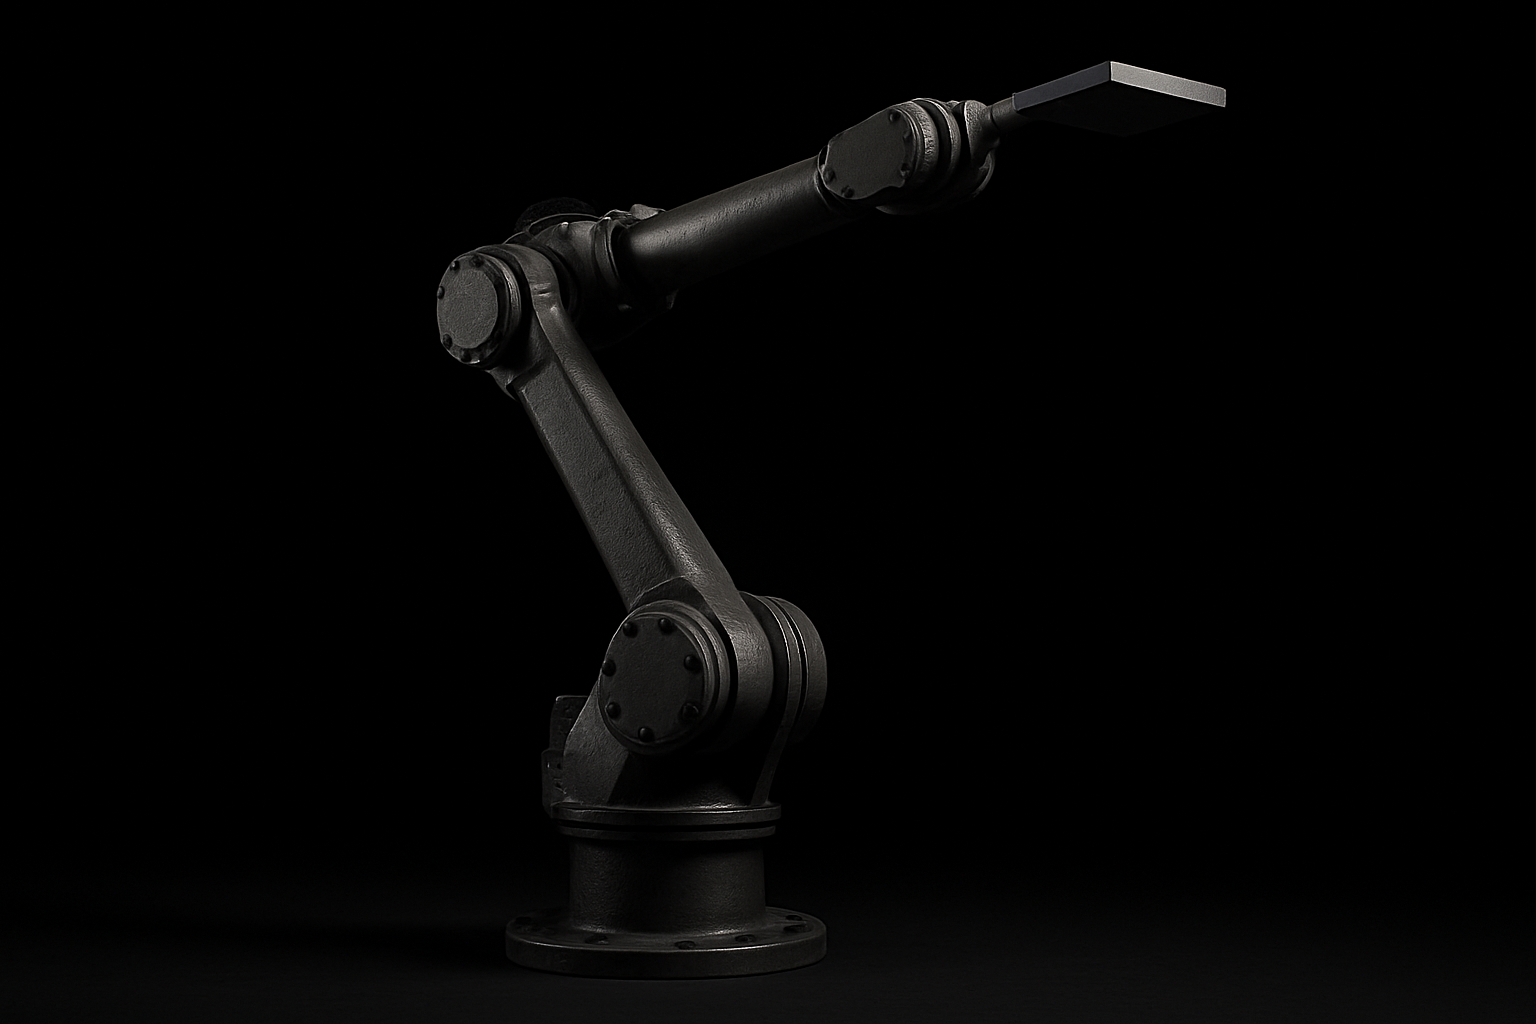
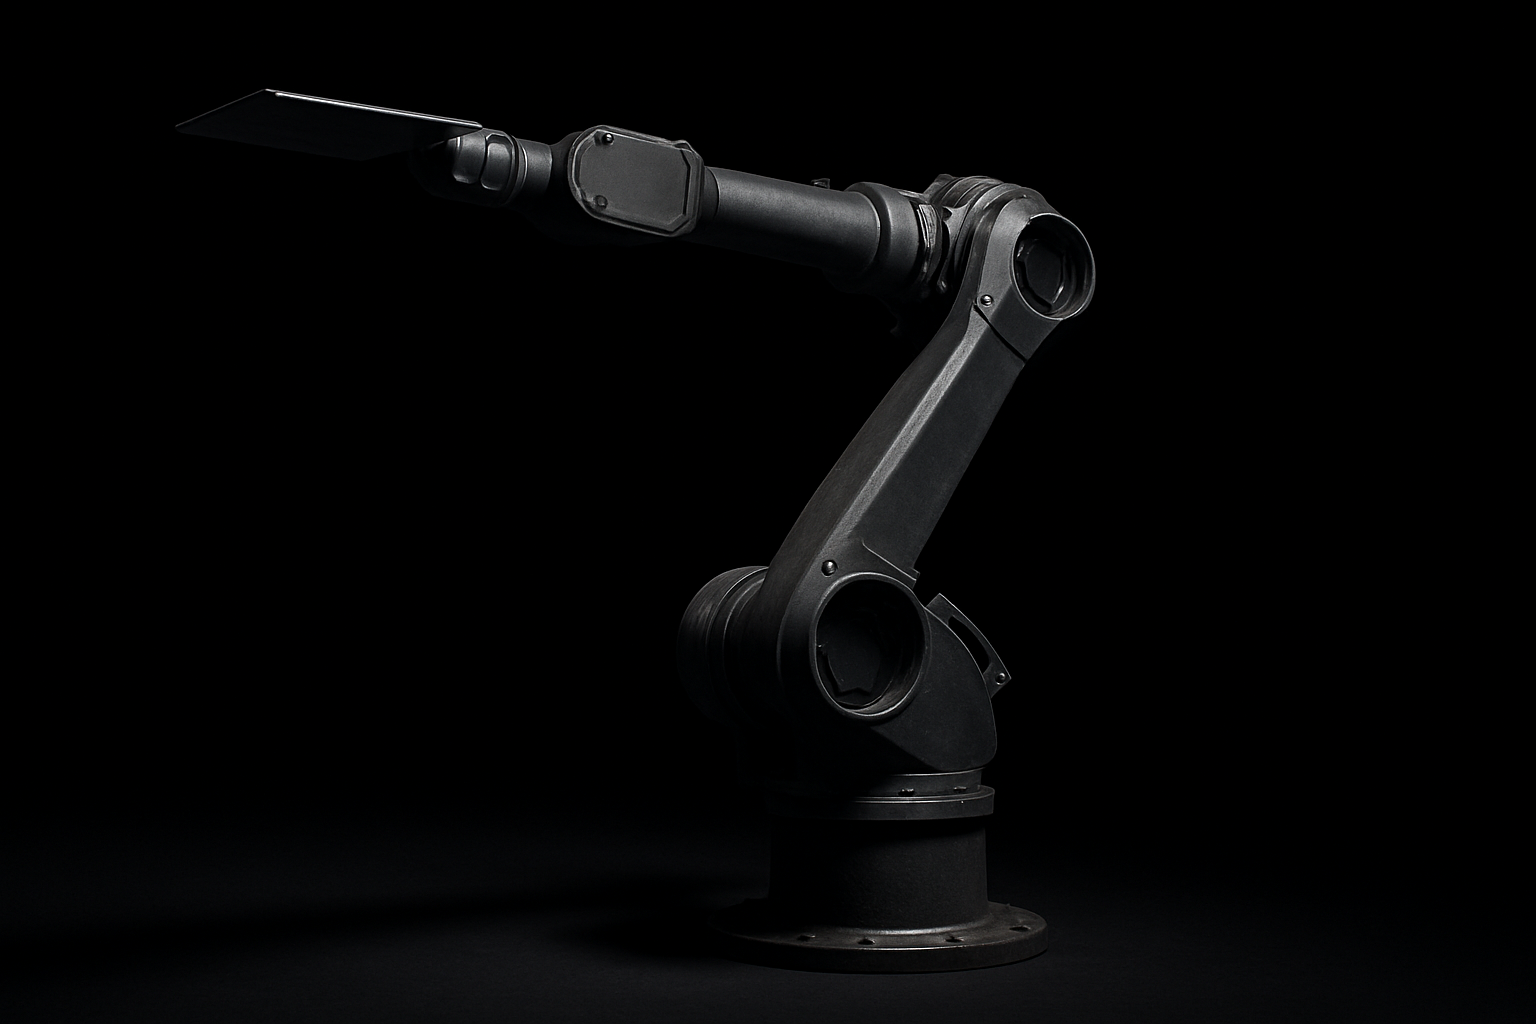
RDC - Lay the stations out for a wide landing frame
Sprite sizes are fractions of frame height, so the timeline takes the
frame aspect to place held objects in the gripper.

Claude-Session: https://claude.ai/code/session_016xuLGMw92atuyNj2hyudPx

Changed region(s): [[0.1875, 0.0625, 0.8125, 0.9375], [0.4375, 0.7812, 0.5, 0.8125]]

diff --git a/client/src/landing/timeline.ts b/client/src/landing/timeline.ts
@@ -30,11 +30,13 @@ export interface SpriteTransform {
   readonly visible: number;
 }
 
-const STATION_X = [1 / 6, 1 / 2, 5 / 6] as const;
-const BELT_Y = 0.72;
-const ARM_BASE_Y = 0.92;
-const ARM_BASE_DX = 0.12;
-const ARM_SCALE = 0.62;
+const STATION_X = [0.4, 0.62, 0.84] as const;
+/** Width over height of the frame the transforms are laid out for. */
+export const DEFAULT_FRAME_ASPECT = 16 / 9;
+const BELT_Y = 0.66;
+const ARM_BASE_Y = 0.86;
+const ARM_BASE_DX = 0.06;
+const ARM_SCALE = 0.48;
 const PLATE_ASPECT = 1.5;
 /** Gripper position in the arm plate, relative to its base pivot, in plate uv units. */
 const GRIPPER_OFFSET = [-0.25, -0.75] as const;
@@ -73,13 +75,17 @@ const rotate = ([dx, dy]: Point, angle: number): Point => [
   -dx * Math.sin(angle) + dy * Math.cos(angle),
 ];
 
-const gripperOf = (armX: number, angle: number): Point => {
+/**
+ * Where an arm's gripper lands in frame uv. Sprite sizes are fractions of frame height, so the
+ * horizontal reach is divided by the frame aspect to land in uv x.
+ */
+const gripperOf = (armX: number, angle: number, frameAspect: number): Point => {
   const offset: Point = [
     GRIPPER_OFFSET[0] * ARM_SCALE * PLATE_ASPECT,
     GRIPPER_OFFSET[1] * ARM_SCALE,
   ];
   const [dx, dy] = rotate(offset, angle);
-  return [armX + dx, ARM_BASE_Y + dy];
+  return [armX + dx / frameAspect, ARM_BASE_Y + dy];
 };
 
 const arm = (
@@ -108,16 +114,20 @@ const handoffAngle = (t: number) =>
 
 const belt: SpriteTransform = {
   id: "belt",
-  x: 0.5,
+  x: 0.64,
   y: BELT_Y,
   angle: 0,
-  scale: 0.34,
+  scale: 0.78,
   visible: 1,
 };
 
-const tulip = (t: number, pickA: number): SpriteTransform => {
-  const held = gripperOf(STATION_X[0]! + ARM_BASE_DX, pickA);
-  const dropX = STATION_X[0]! - 0.08;
+const tulip = (
+  t: number,
+  pickA: number,
+  frameAspect: number,
+): SpriteTransform => {
+  const held = gripperOf(STATION_X[0]! + ARM_BASE_DX, pickA, frameAspect);
+  const dropX = STATION_X[0]! - 0.06;
   const lowered = seg(t, 1.5, 1.9);
   const ride = seg(t, 1.9, 3.6);
   const x = lerp(lerp(held[0], dropX, lowered), STATION_X[1]!, ride);
@@ -127,7 +137,7 @@ const tulip = (t: number, pickA: number): SpriteTransform => {
     x,
     y,
     angle: 0,
-    scale: 0.1,
+    scale: 0.2,
     visible: present(t, 0.6, 0.9, 3.6, 3.9),
   };
 };
@@ -135,14 +145,22 @@ const tulip = (t: number, pickA: number): SpriteTransform => {
 const bunch = (t: number): SpriteTransform => ({
   id: "bunch",
   x: lerp(STATION_X[1]!, STATION_X[2]! - 0.1, seg(t, 3.9, 5.4)),
-  y: BELT_Y - 0.06,
+  y: BELT_Y - 0.05,
   angle: 0,
-  scale: 0.16,
+  scale: 0.2,
   visible: present(t, 3.6, 3.9, 5.4, 5.7),
 });
 
-const bouquet = (t: number, handoffA: number): SpriteTransform => {
-  const [gx, gy] = gripperOf(STATION_X[2]! + ARM_BASE_DX, handoffA);
+const bouquet = (
+  t: number,
+  handoffA: number,
+  frameAspect: number,
+): SpriteTransform => {
+  const [gx, gy] = gripperOf(
+    STATION_X[2]! + ARM_BASE_DX,
+    handoffA,
+    frameAspect,
+  );
   return {
     id: "bouquet",
     x: gx,
@@ -153,7 +171,10 @@ const bouquet = (t: number, handoffA: number): SpriteTransform => {
   };
 };
 
-export const timeline = (time: number): readonly SpriteTransform[] => {
+export const timeline = (
+  time: number,
+  frameAspect: number = DEFAULT_FRAME_ASPECT,
+): readonly SpriteTransform[] => {
   const t = wrap(time);
   const pickA = pickAngle(t);
   const handoffA = handoffAngle(t);
@@ -162,8 +183,8 @@ export const timeline = (time: number): readonly SpriteTransform[] => {
     arm("arm-pick", 0, pickA),
     arm("arm-wrap", 1, wrapAngle(t)),
     arm("arm-handoff", 2, handoffA),
-    tulip(t, pickA),
+    tulip(t, pickA, frameAspect),
     bunch(t),
-    bouquet(t, handoffA),
+    bouquet(t, handoffA, frameAspect),
   ];
 };

diff --git a/client/src/landing/plates.ts b/client/src/landing/plates.ts
@@ -20,7 +20,7 @@ const PLATE_LIST: readonly Plate[] = [
     id: "belt",
     prompt: `A long empty black rubber conveyor belt segment on a dark steel frame, seen from the side at eye level, running horizontally across the full width of the frame in the lower third, rollers visible at each end. ${STYLE}`,
     pivot: [0.5, 0.56],
-    exposure: 2.2,
+    exposure: 2.0,
   },
   {
     id: "arm-pick",
@@ -30,8 +30,8 @@ const PLATE_LIST: readonly Plate[] = [
   },
   {
     id: "arm-wrap",
-    prompt: `An industrial six-axis robot arm in dark grey metal, bolted to a round base flange at the bottom centre of the frame, reaching straight up and forward with a flat paddle end effector, full arm visible. ${STYLE}`,
-    pivot: [0.43, 0.92],
+    prompt: `An industrial six-axis robot arm in dark grey metal, bolted to a round base flange at the bottom centre of the frame, reaching up and to the left with a flat paddle end effector held level, full arm visible. ${STYLE}`,
+    pivot: [0.57, 0.91],
     exposure: 2.4,
   },
   {
